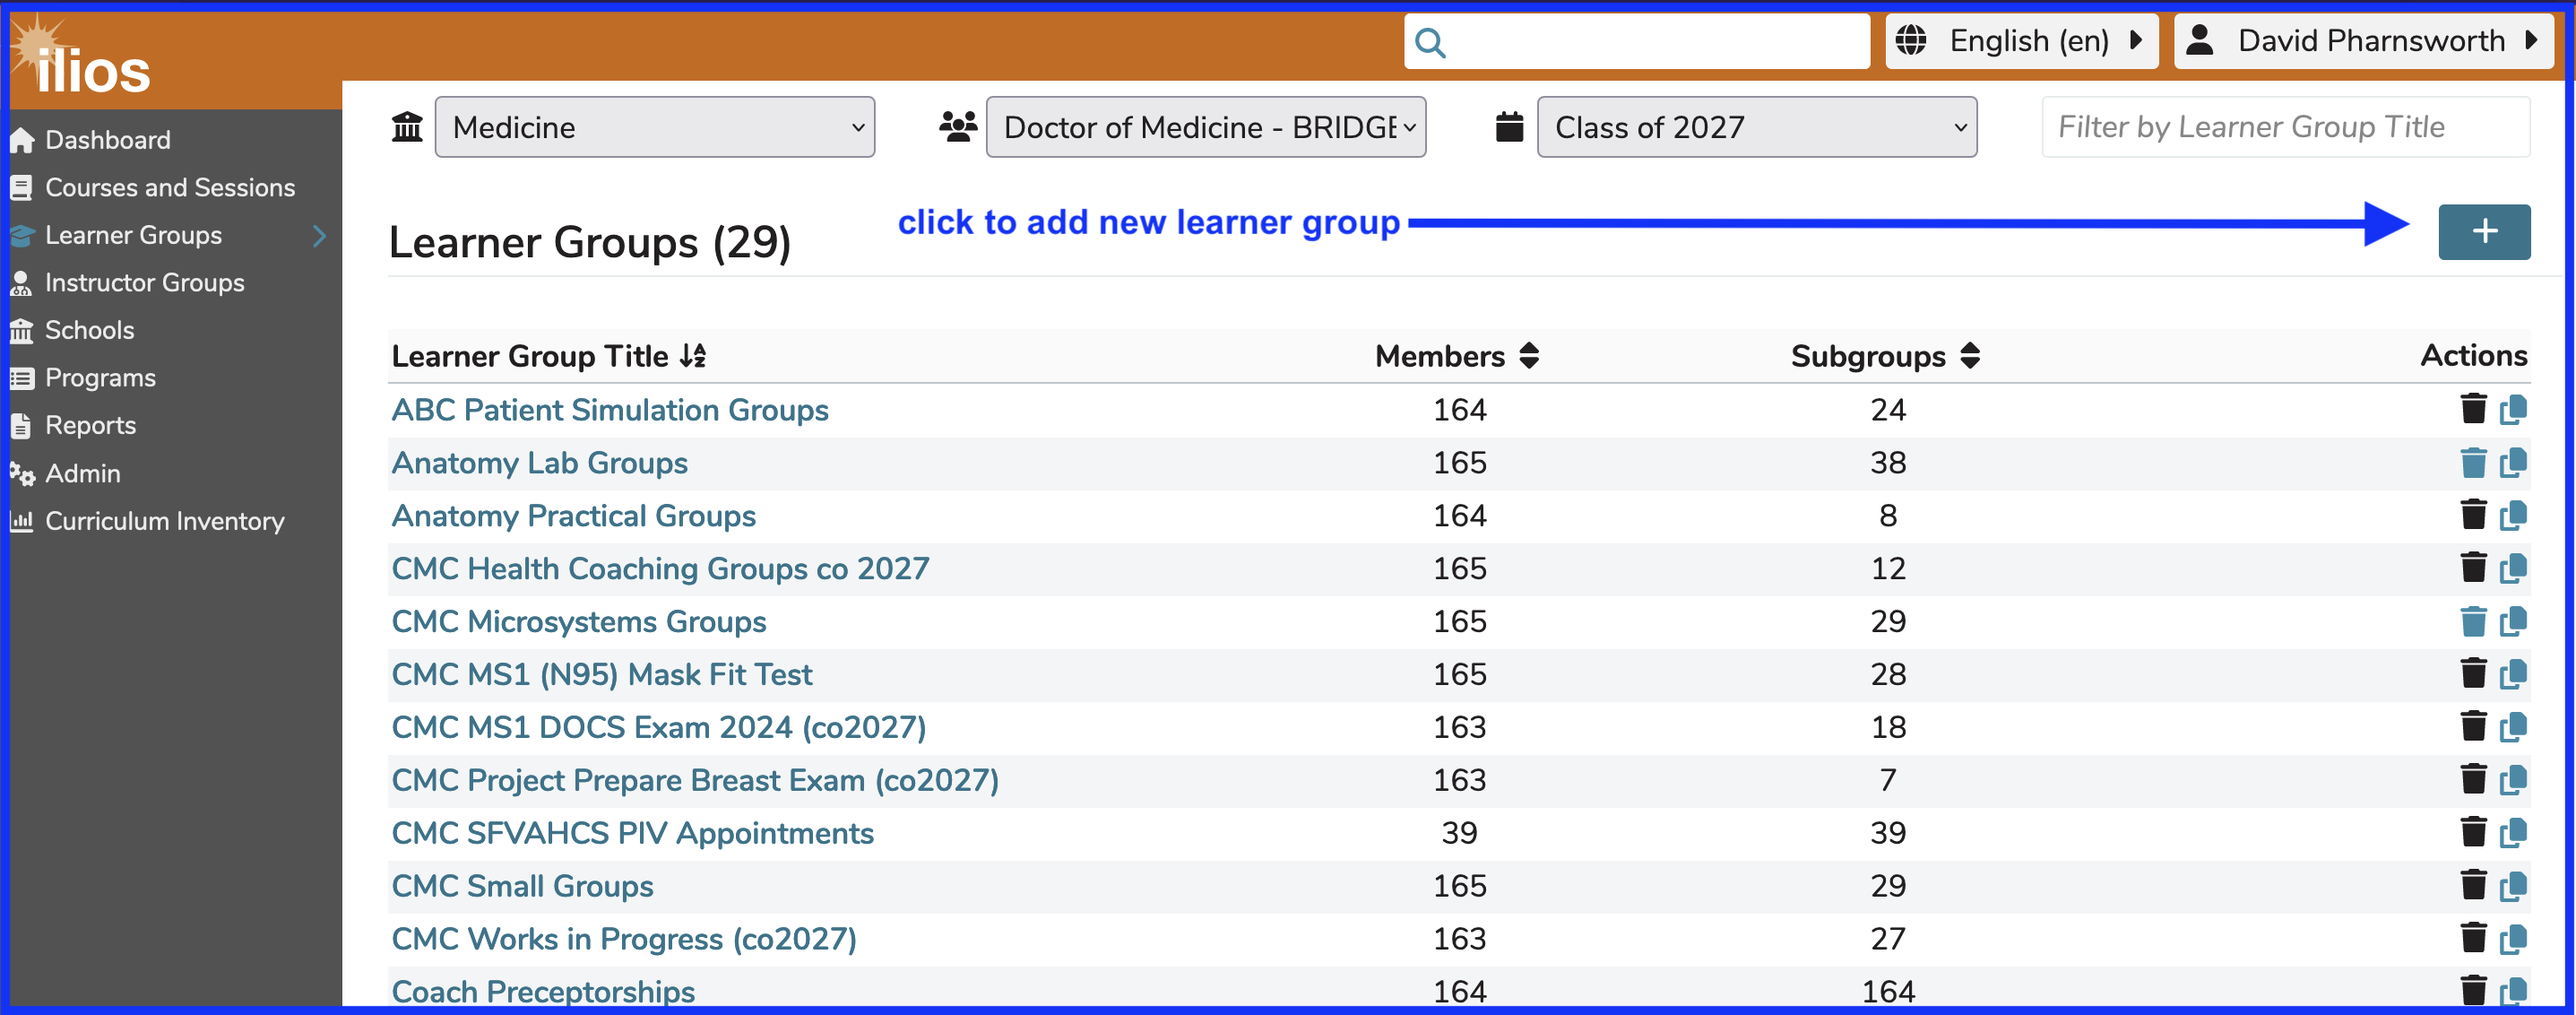
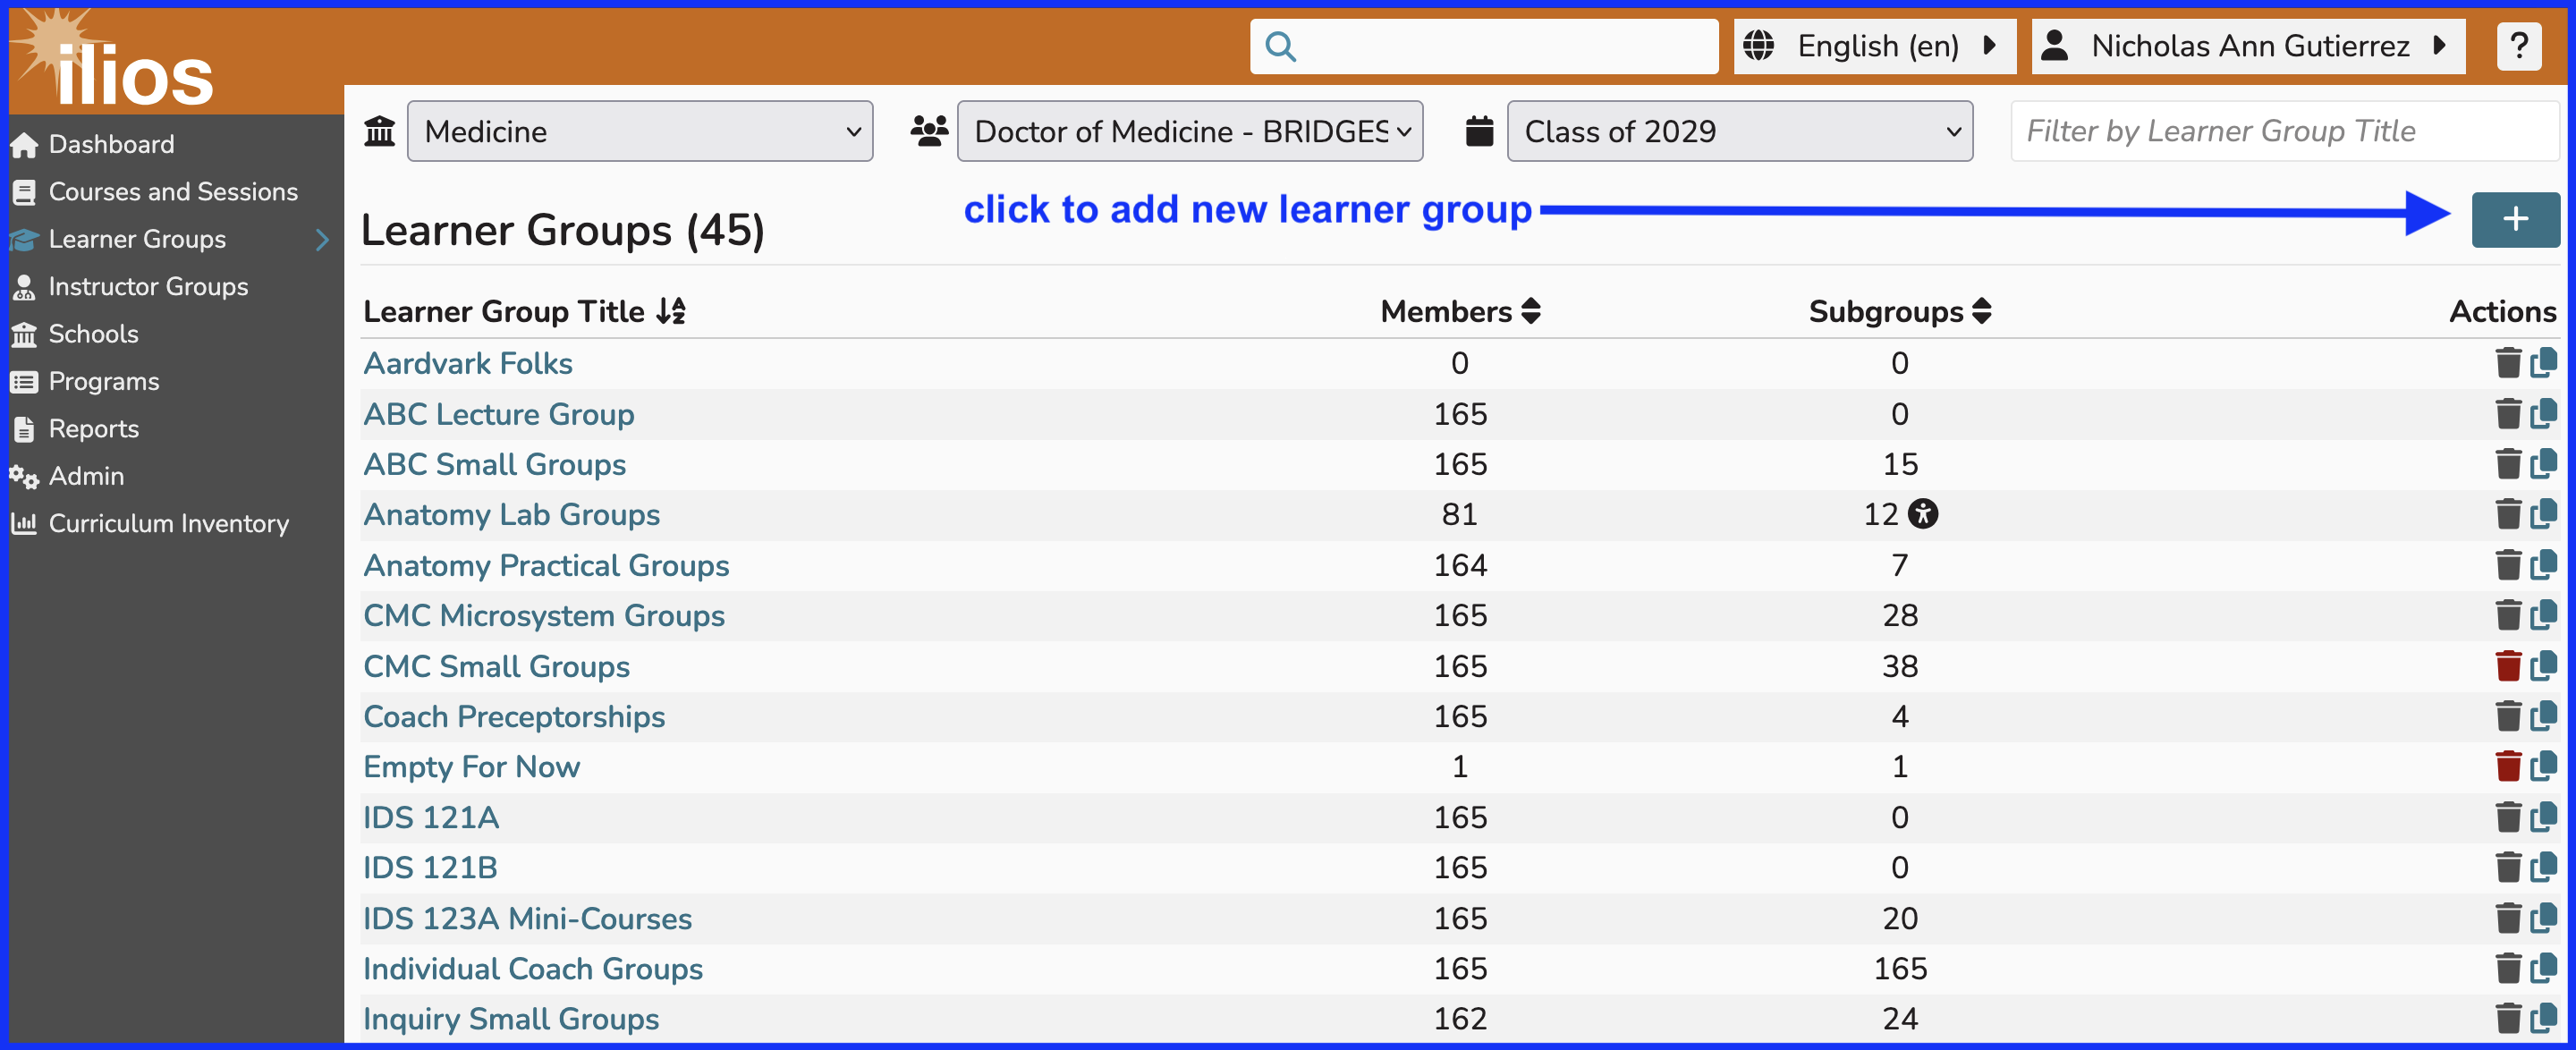
Merge pull request #1822 from ilios/click_to_add_replacement_image_new_lg
new learner group update - image replaced new lg

Pull request: new learner group update - image replaced new lg
This PR updates the first image - add_new learner group

diff --git a/learner-groups/new-learner-group.md b/learner-groups/new-learner-group.md
@@ -1,6 +1,6 @@
 # New Learner Group
 
-To add a new Learner Group, select a program and cohort and click the (+) icon as shown below to start the process of adding a new top-level Learner Group.
+To add a new Learner Group, select a program and cohort and click the (+) icon as shown below to start the process of adding a new Learner Group.
 
 ## Add Learner Group 
 
@@ -14,7 +14,7 @@ As shown below, you can choose to add the entire cohort to the new group or leav
 
 After clicking "Done", the new learner group is added to the appropriate list (shown below). The list is sorted initially by title in alphabetical order. The sort order can be changed by the user to be Member or Subgroup counts instead of title. The new learner group "Reasoning and Thought" has been added with no students included. They can be added later of course.
 
-**NOTE**: This newly added Learner Group can still be deleted since it has not been attached to any Offerings yet.
+**NOTE**: This newly added learner group can still be deleted (removed from the system) since it has not been attached to any offerings yet.
 
 ![learner group added](../images/new_learner_group/learner_group_added.png)
 